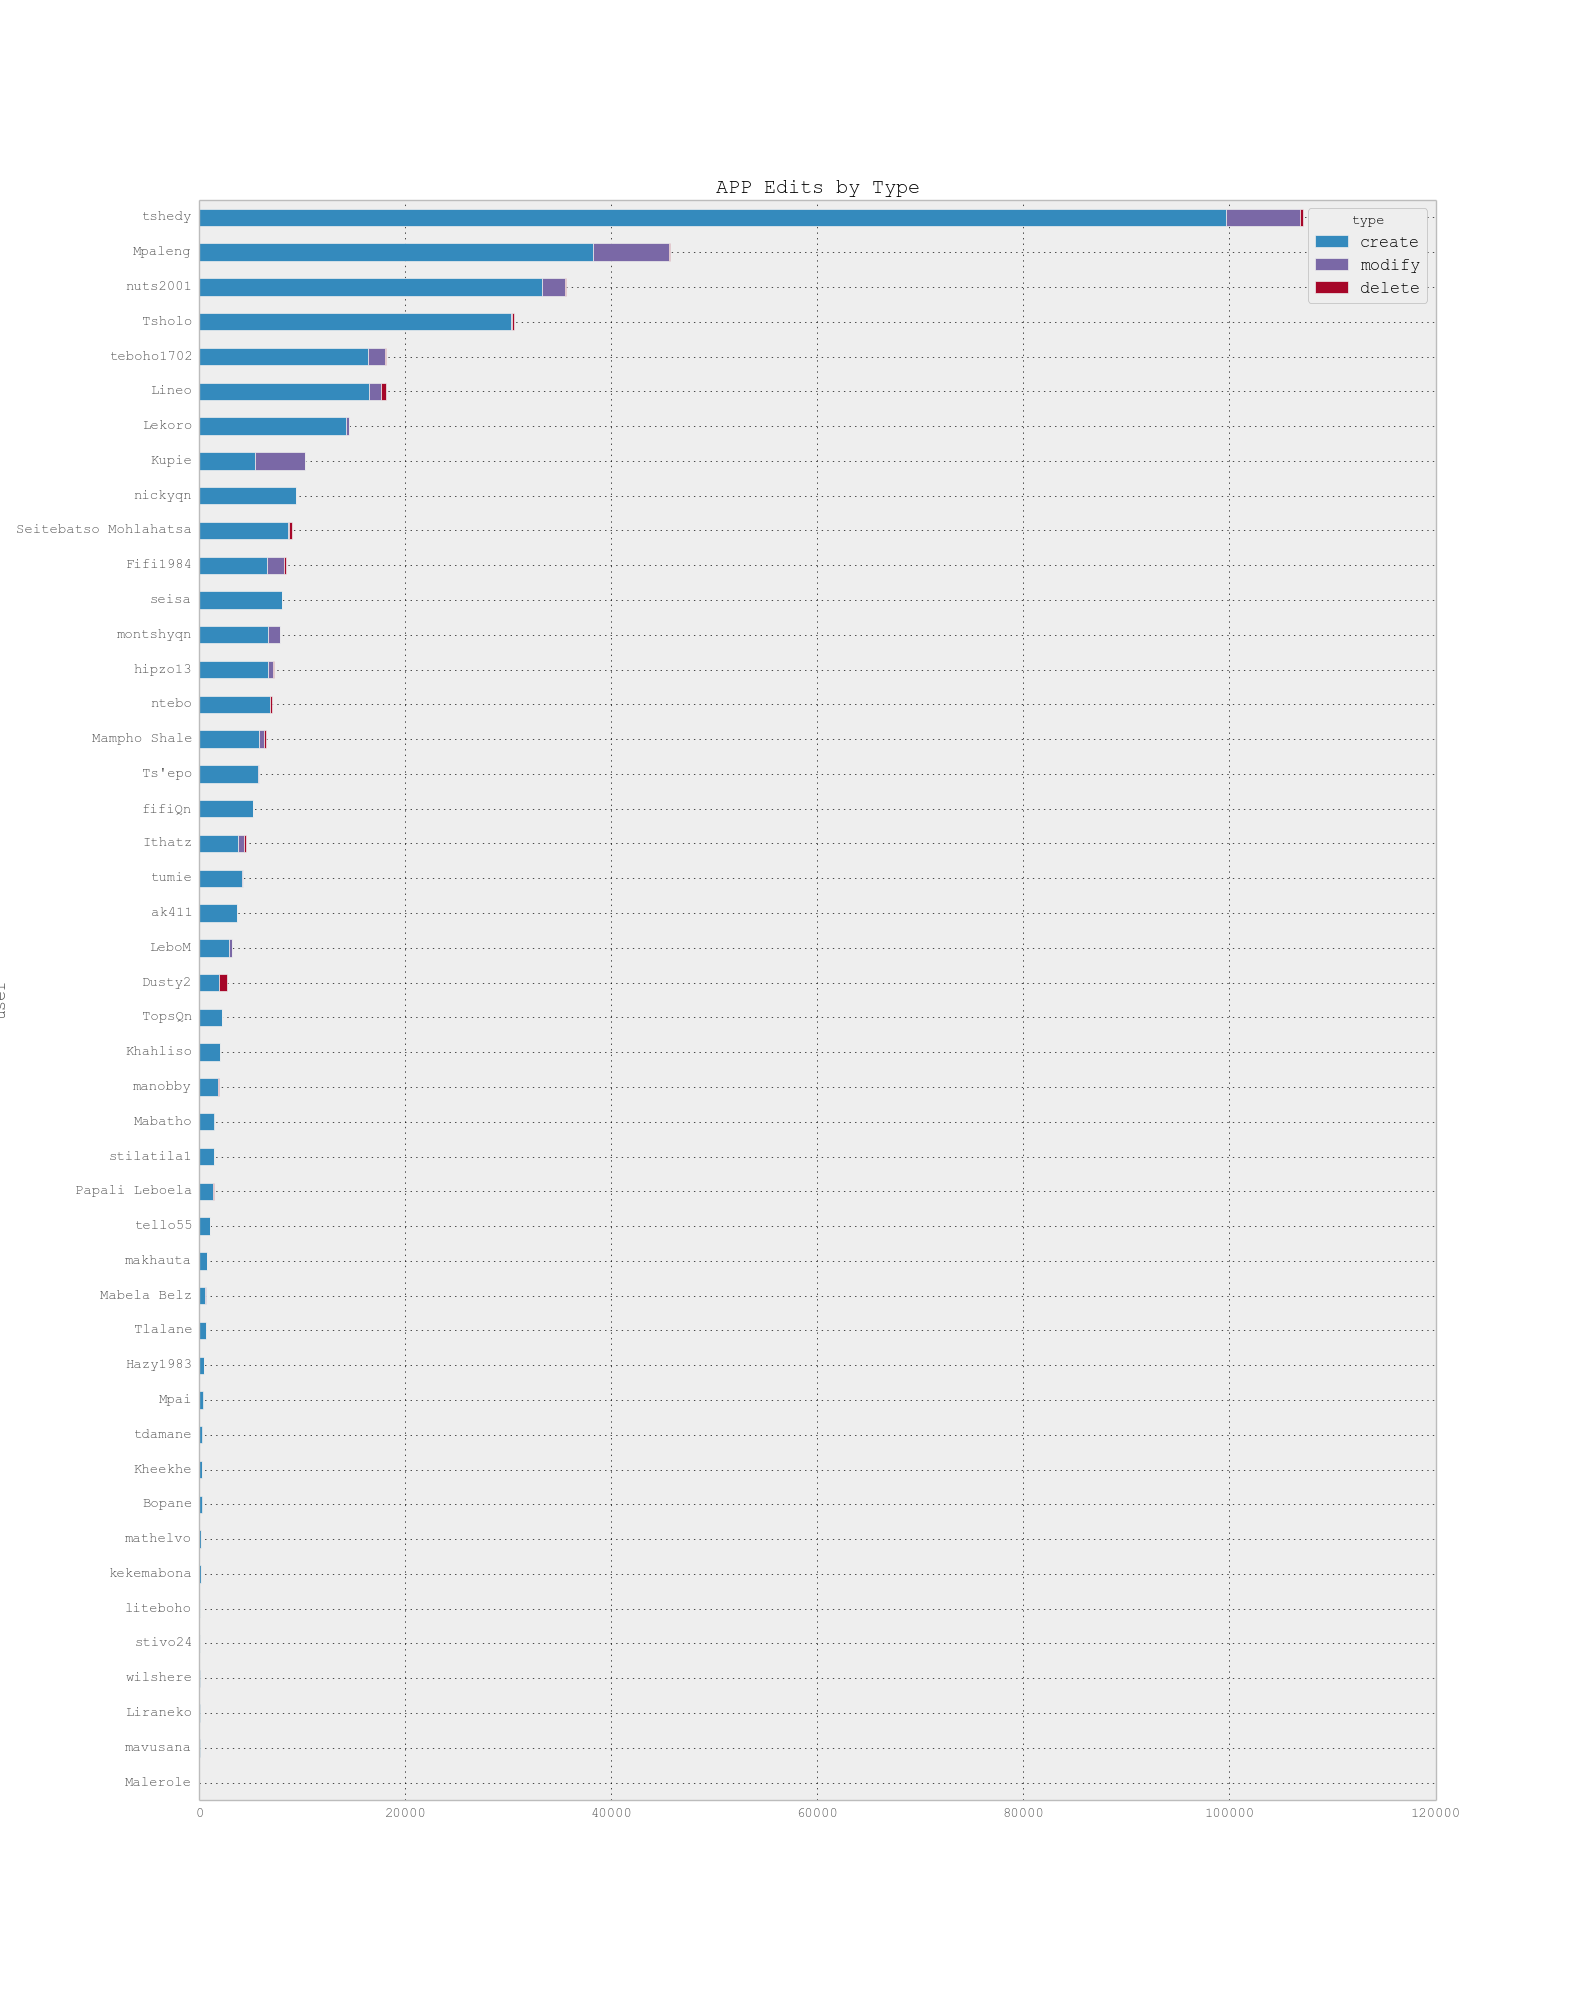
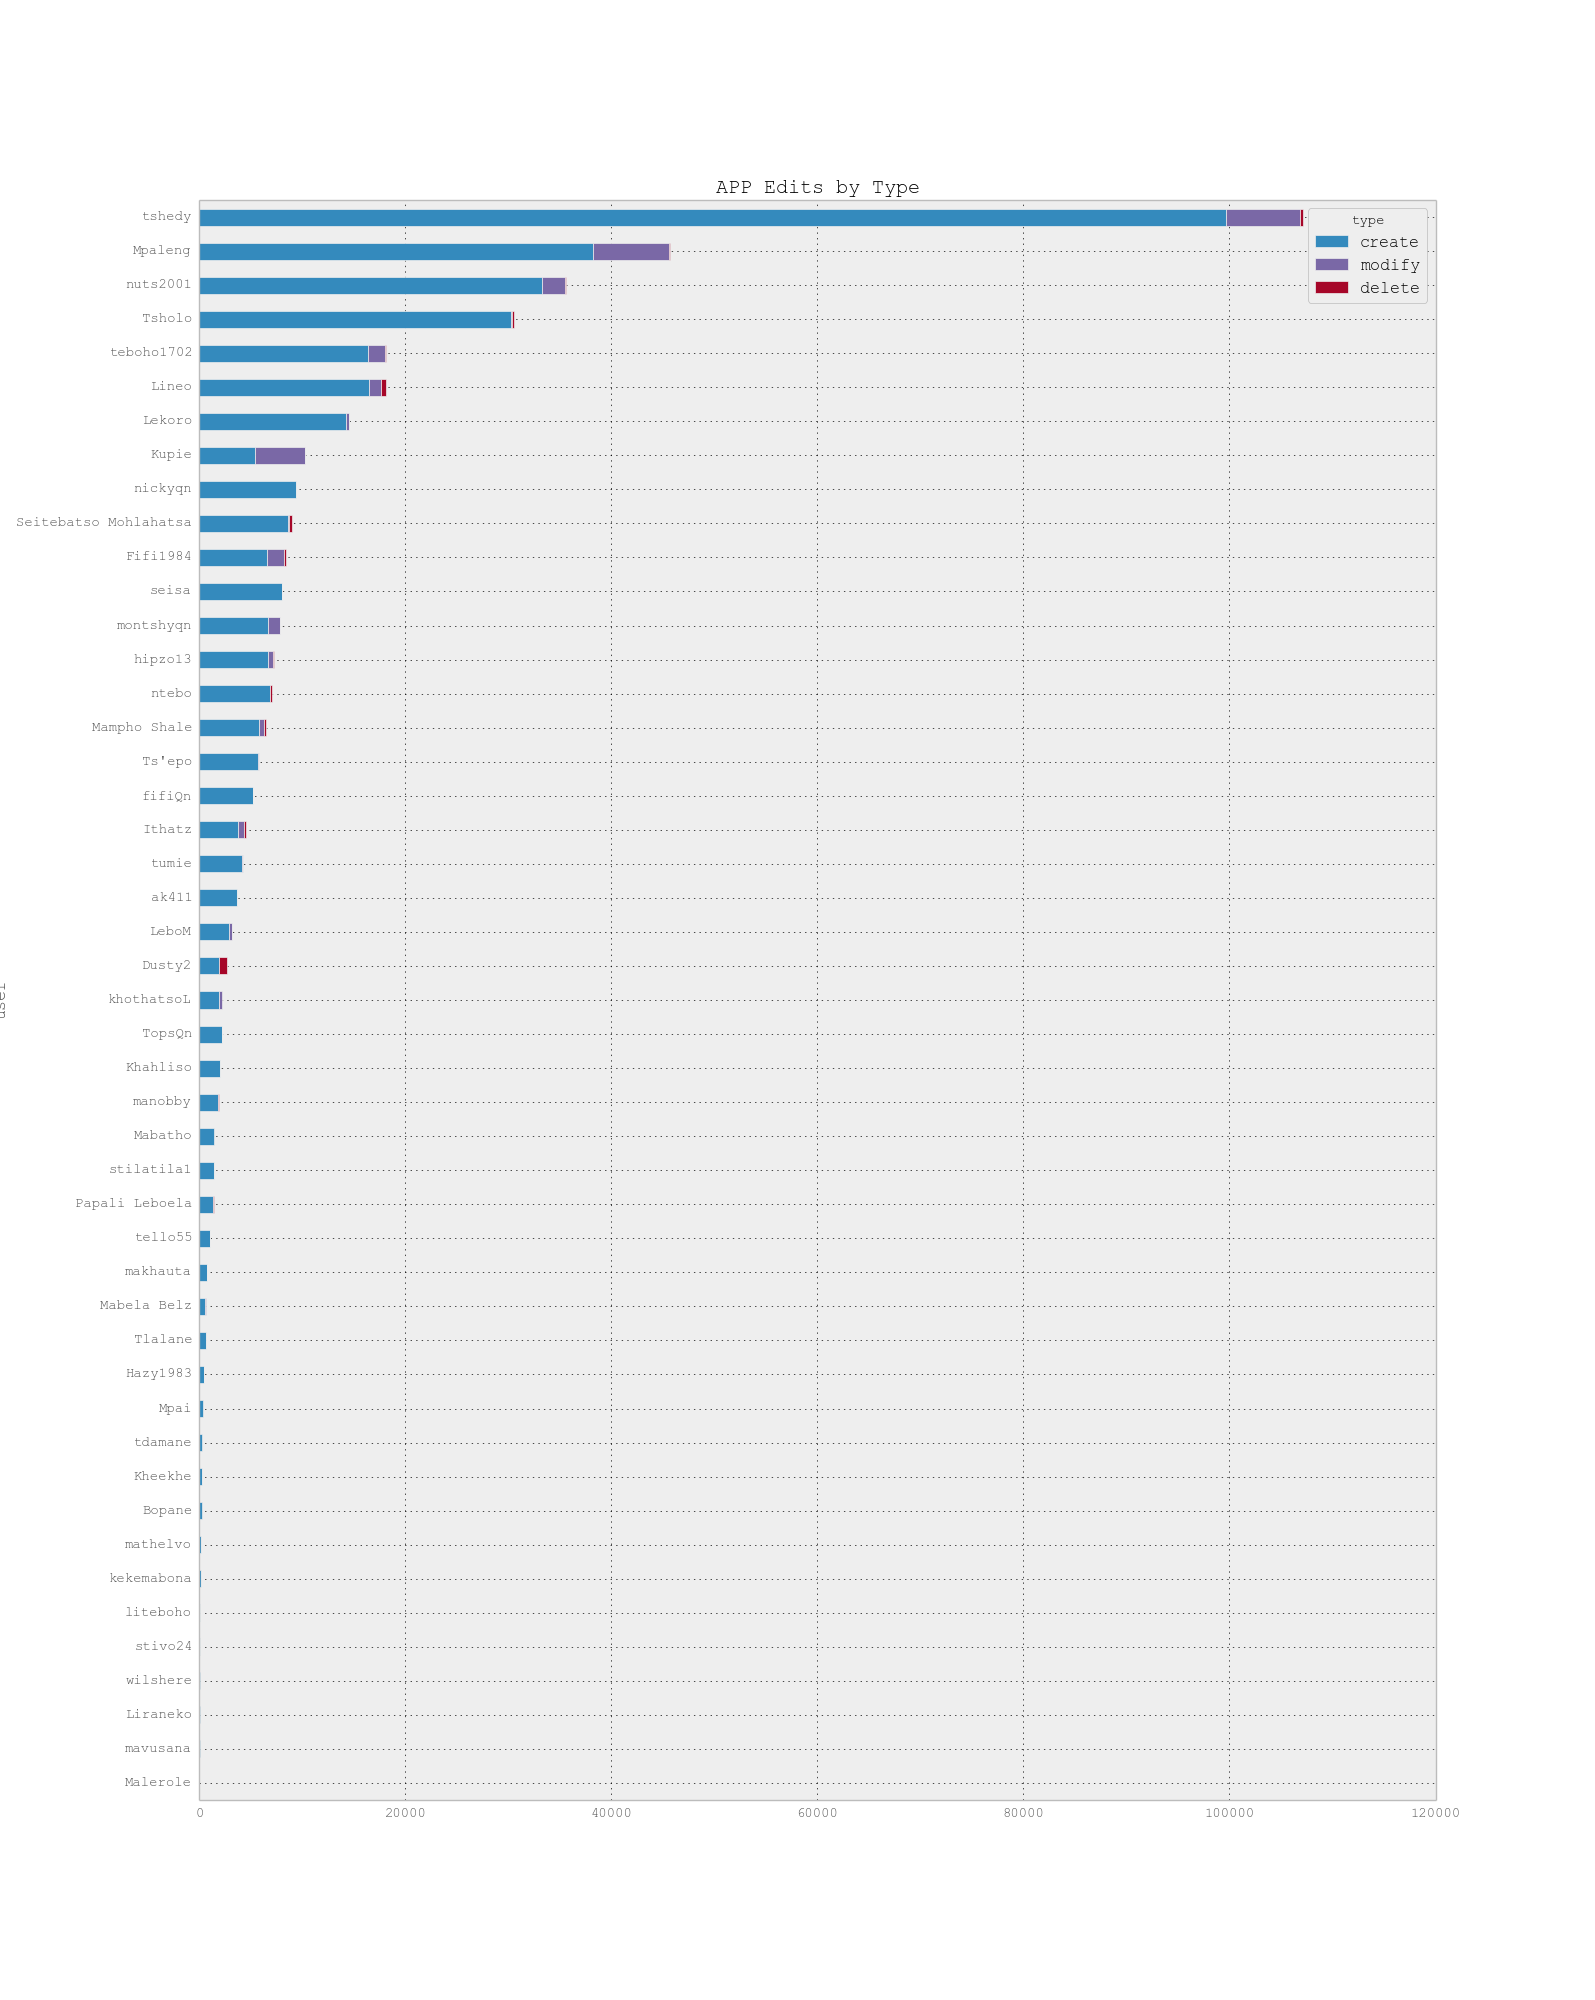
updated with khothatsoL

Changed region(s): [[0.0614, 0.124, 0.3379, 0.806], [0.0922, 0.837, 0.1229, 0.868]]

diff --git a/index.html b/index.html
@@ -252,6 +252,14 @@
     </tr>
     <tr>
       <th>23</th>
+      <td>khothatsoL</td>
+      <td>1901</td>
+      <td>0</td>
+      <td>338</td>
+      <td>2239</td>
+    </tr>
+    <tr>
+      <th>24</th>
       <td>TopsQn</td>
       <td>2186</td>
       <td>8</td>
@@ -259,7 +267,7 @@
       <td>2220</td>
     </tr>
     <tr>
-      <th>24</th>
+      <th>25</th>
       <td>Khahliso</td>
       <td>2005</td>
       <td>9</td>
@@ -267,7 +275,7 @@
       <td>2014</td>
     </tr>
     <tr>
-      <th>25</th>
+      <th>26</th>
       <td>manobby</td>
       <td>1839</td>
       <td>8</td>
@@ -275,7 +283,7 @@
       <td>1859</td>
     </tr>
     <tr>
-      <th>26</th>
+      <th>27</th>
       <td>Mabatho</td>
       <td>1428</td>
       <td>0</td>
@@ -283,7 +291,7 @@
       <td>1428</td>
     </tr>
     <tr>
-      <th>27</th>
+      <th>28</th>
       <td>stilatila1</td>
       <td>1388</td>
       <td>25</td>
@@ -291,7 +299,7 @@
       <td>1413</td>
     </tr>
     <tr>
-      <th>28</th>
+      <th>29</th>
       <td>Papali Leboela</td>
       <td>1352</td>
       <td>43</td>
@@ -299,7 +307,7 @@
       <td>1395</td>
     </tr>
     <tr>
-      <th>29</th>
+      <th>30</th>
       <td>tello55</td>
       <td>1017</td>
       <td>5</td>
@@ -307,7 +315,7 @@
       <td>1025</td>
     </tr>
     <tr>
-      <th>30</th>
+      <th>31</th>
       <td>makhauta</td>
       <td>700</td>
       <td>23</td>
@@ -315,7 +323,7 @@
       <td>727</td>
     </tr>
     <tr>
-      <th>31</th>
+      <th>32</th>
       <td>Mabela Belz</td>
       <td>587</td>
       <td>0</td>
@@ -323,7 +331,7 @@
       <td>642</td>
     </tr>
     <tr>
-      <th>32</th>
+      <th>33</th>
       <td>Tlalane</td>
       <td>625</td>
       <td>3</td>
@@ -331,7 +339,7 @@
       <td>628</td>
     </tr>
     <tr>
-      <th>33</th>
+      <th>34</th>
       <td>Hazy1983</td>
       <td>401</td>
       <td>27</td>
@@ -339,7 +347,7 @@
       <td>442</td>
     </tr>
     <tr>
-      <th>34</th>
+      <th>35</th>
       <td>Mpai</td>
       <td>349</td>
       <td>0</td>
@@ -347,7 +355,7 @@
       <td>349</td>
     </tr>
     <tr>
-      <th>35</th>
+      <th>36</th>
       <td>tdamane</td>
       <td>301</td>
       <td>0</td>
@@ -355,7 +363,7 @@
       <td>301</td>
     </tr>
     <tr>
-      <th>36</th>
+      <th>37</th>
       <td>Kheekhe</td>
       <td>290</td>
       <td>3</td>
@@ -363,7 +371,7 @@
       <td>293</td>
     </tr>
     <tr>
-      <th>37</th>
+      <th>38</th>
       <td>Bopane</td>
       <td>287</td>
       <td>0</td>
@@ -371,7 +379,7 @@
       <td>287</td>
     </tr>
     <tr>
-      <th>38</th>
+      <th>39</th>
       <td>mathelvo</td>
       <td>181</td>
       <td>0</td>
@@ -379,7 +387,7 @@
       <td>186</td>
     </tr>
     <tr>
-      <th>39</th>
+      <th>40</th>
       <td>kekemabona</td>
       <td>171</td>
       <td>0</td>
@@ -387,7 +395,7 @@
       <td>182</td>
     </tr>
     <tr>
-      <th>40</th>
+      <th>41</th>
       <td>liteboho</td>
       <td>95</td>
       <td>5</td>
@@ -395,7 +403,7 @@
       <td>100</td>
     </tr>
     <tr>
-      <th>41</th>
+      <th>42</th>
       <td>stivo24</td>
       <td>74</td>
       <td>0</td>
@@ -403,7 +411,7 @@
       <td>75</td>
     </tr>
     <tr>
-      <th>42</th>
+      <th>43</th>
       <td>wilshere</td>
       <td>73</td>
       <td>0</td>
@@ -411,7 +419,7 @@
       <td>73</td>
     </tr>
     <tr>
-      <th>43</th>
+      <th>44</th>
       <td>Liraneko</td>
       <td>38</td>
       <td>0</td>
@@ -419,7 +427,7 @@
       <td>38</td>
     </tr>
     <tr>
-      <th>44</th>
+      <th>45</th>
       <td>mavusana</td>
       <td>21</td>
       <td>0</td>
@@ -427,7 +435,7 @@
       <td>21</td>
     </tr>
     <tr>
-      <th>45</th>
+      <th>46</th>
       <td>Malerole</td>
       <td>0</td>
       <td>4</td>
